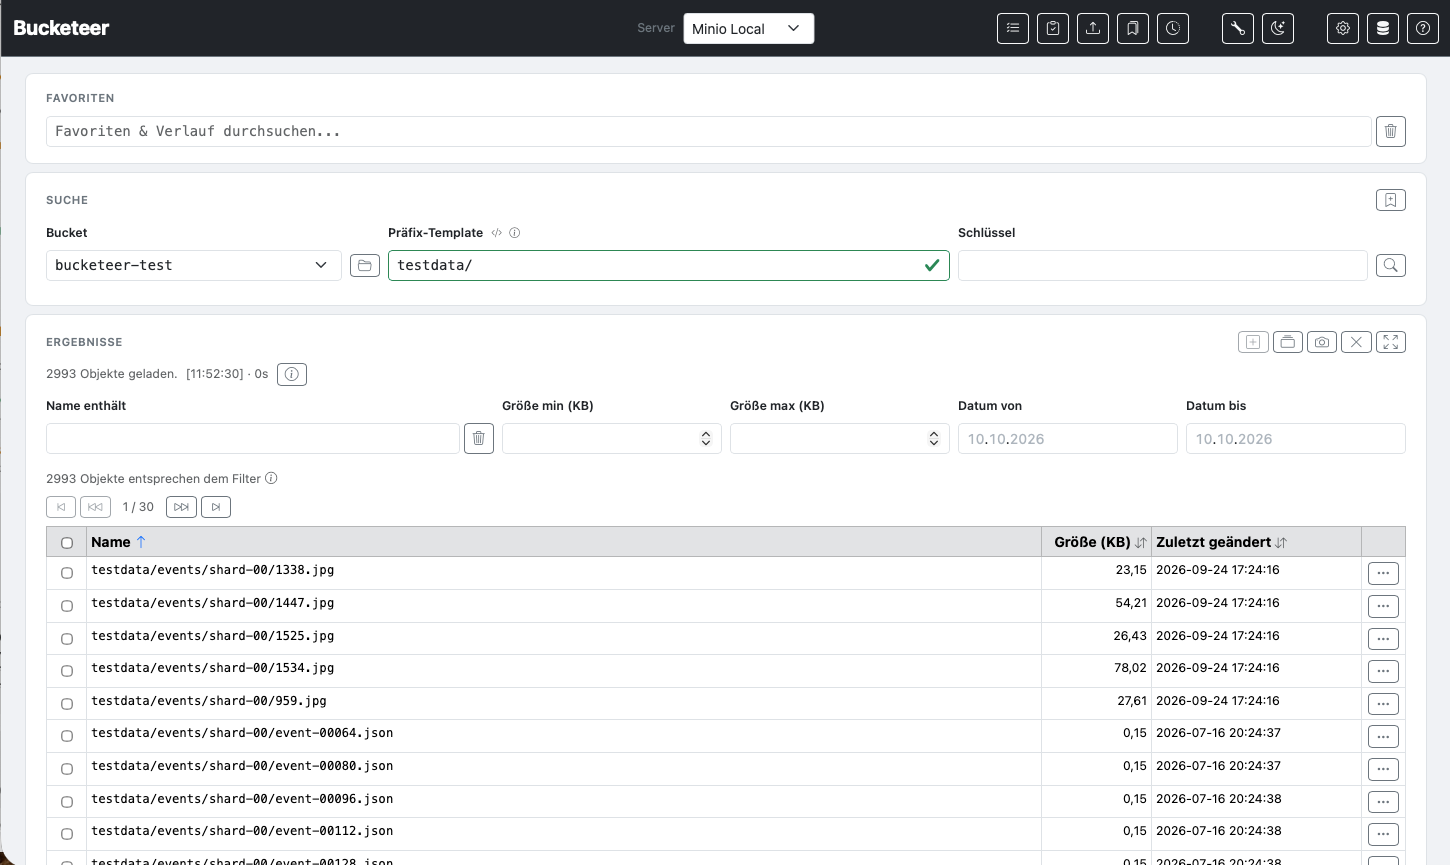
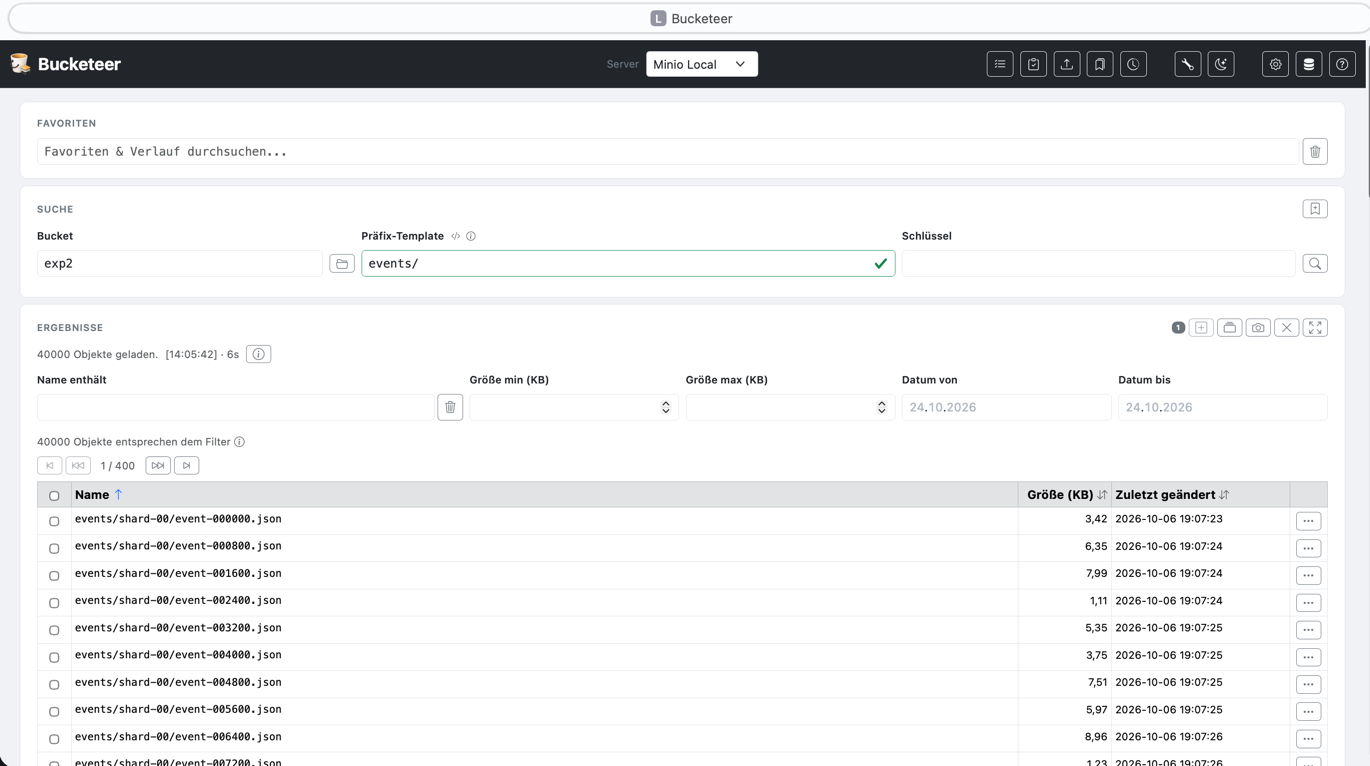
new screenshot.

diff --git a/README.md b/README.md
@@ -1,6 +1,8 @@
 # Bucketeer
 
-A web-based **S3 object browser** for any S3-compatible server — list, filter, sort, download, move, delete, upload and compare objects in your browser.
+A web-based **S3 object browser** for any S3-compatible server — list, filter, sort, collect, download, move, delete, upload and compare objects in your browser.
+
+Using duckdb at it's core. Available in English, German and Spanish language.
 
 ![Bucketeer](img.png)
 ## Features
@@ -11,7 +13,7 @@ A web-based **S3 object browser** for any S3-compatible server — list, filter,
 - **Fast search** — every listing (search, download, snapshot, REST list) picks its strategy per query: a quick prefix analysis chooses between a sequential flat stream and a parallel per-prefix harvest (worker threads), so large sub-prefixes are fetched concurrently while many tiny prefixes stay on one stream — see [Parallel Listing](https://github.com/uwegeercken/bucketeer/wiki/Parallel-Listing)
 - **Settings dialog** — all configuration (Query, History, Snapshots, Timezone, Upload, Scan) is grouped into blocks and opened from the gear icon on any page
 - **Favorites &amp; history** — searchable combobox for favorites (server + bucket + prefix + key) and automatic search history
-- **Selection &amp; bulk download** — collect objects across queries as batches and download them all as a ZIP
+- **Selection &amp; bulk download** — collect objects across one or multiple queries as batches and download them all as a ZIP
 - **Move &amp; delete objects** — single and batch operations (copy + delete); existing targets are skipped and reported
 - **File upload** — upload single or multiple files to any configured server and bucket, with an optional target prefix
 - **Object tags** — view S3 tags of any object via the row context menu
